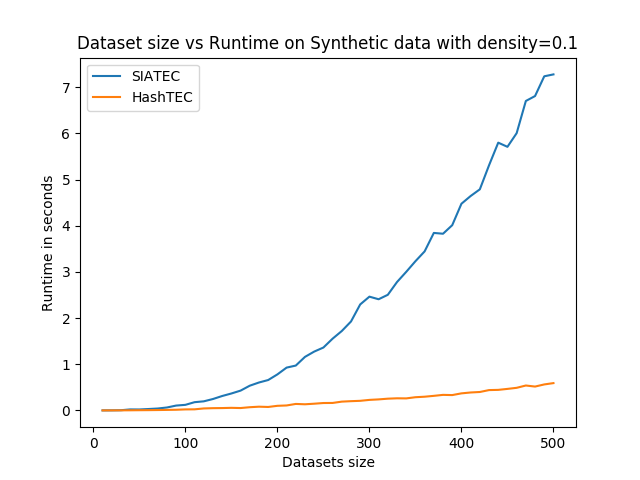
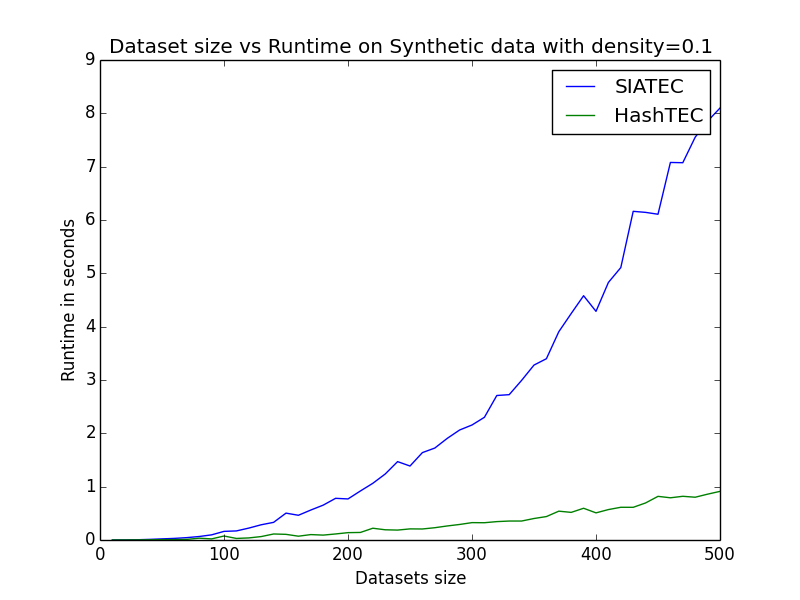
added some graphs of results, messed up main file a bunch

diff --git a/main.py b/main.py
@@ -4,6 +4,7 @@ import synthetic_tests as synth_tests
 import utils as util
 from time import time
 from os.path import join
+from os import listdir
 from tqdm import tqdm
 import multiprocessing as mp
 
@@ -12,7 +13,7 @@ import matplotlib.pyplot as plt
 import numpy as np
 
 
-PARKER_ROOT = "./charlier_parker_data/"
+PARKER_ROOT = "./charlie_parker_data/"
 
 def syntheticDataTest(dataset):
     startSia = time()
@@ -21,7 +22,7 @@ def syntheticDataTest(dataset):
     startHash = time()
     hashOutput = hashtec.hashTEC(dataset)
     endHash = time()
-    print("Total time for SIATEC: {}\nTotal time for HashTEC: {} seconds".format(endSia - startSia, endHash - startHash))
+    # print("Total time for SIATEC: {}\nTotal time for HashTEC: {} seconds".format(endSia - startSia, endHash - startHash))
 
     # print("HASH OUTPUT: " + str(hashOutput))
     # print("SIA OUTPUT: " + str(siaTecOutput))
@@ -56,9 +57,9 @@ def musicDataTest(filename):
     print("Test results for music data from {}".format(piecename))
     print("Total time for SIATEC: {} seconds\nTotal time for HashTEC: {} seconds".format(endSia - startSia, endHash - startHash))
 
-    hashTecOutput = [(pat, trans) for pat, trans in hashOutput.items()]
-    equivOutput = util.isEquivTecSets(siaTecOutput, hashTecOutput, dataset)
-    print("SIATEC and HashTEC outputs are equivalent: {}".format(equivOutput))
+    # hashTecOutput = [(pat, trans) for pat, trans in hashOutput.items()]
+    # equivOutput = util.isEquivTecSets(siaTecOutput, hashTecOutput, dataset)
+    # print("SIATEC and HashTEC outputs are equivalent: {}".format(equivOutput))
 
 
 def pmap(f, xs):
@@ -72,7 +73,7 @@ def pmap(f, xs):
 
 
 def densityRuntimeTest():
-    densities = [0.001, 0.01, 0.1, 1.0]
+    densities = [0.001, 0.01, 0.1]
 
     for i, density in enumerate(densities):
         xaxis = np.arange(10, 510, 10)
@@ -103,33 +104,88 @@ def multiLengthMusicTest(datasets, xaxis):
         siaResults.append(siaRes)
         hashResults.append(hashRes)
 
-    plt.figure()
-    plt.title("Dataset size vs Runtime on Synthetic data on music piece")
-    plt.xlabel("Datasets size")
-    plt.ylabel("Runtime in seconds")
-    plt.plot(xaxis, siaResults)
-    plt.plot(xaxis, hashResults)
-    plt.legend(["SIATEC", "HashTEC"])
-    plt.savefig("music_prelim_results.png")
+    return siaResults, hashResults
+
+    # plt.figure()
+    # plt.title("Dataset size vs Runtime on Synthetic data on music piece")
+    # plt.xlabel("Datasets size")
+    # plt.ylabel("Runtime in seconds")
+    # plt.plot(xaxis, siaResults)
+    # plt.plot(xaxis, hashResults)
+    # plt.legend(["SIATEC", "HashTEC"])
+    # plt.savefig("music_prelim_results.png")
 
 
 def main():
     # test1 = sorted(synth_tests.regular_dataset)
     # syntheticDataTest(test1)
     #
+
+    parker_files = list()
+    # root_dir = join(DROPBOX_MUSICA_XML_ROOT, "./be_bop/")
+    music_files = listdir(PARKER_ROOT)
+    for filename in music_files:
+        if "Charlie Parker" in filename:
+            parker_files.append(join(PARKER_ROOT, filename))
+
     # filename = join(PARKER_ROOT, "be_bop/Charlie Parker - Donna_Lee.xml")
-    # piecename = filename[filename.rfind("/") + 1: filename.rfind(".xml")]
-    # print("Creating note dataset for {}".format(piecename))
-    # parser = XMLParser()
-    # (_, parts) = parser.parse_score(filepath=filename)
-    # dataset = util.pitch_dataset(parts[0]["melody"])
-    # bounds = np.arange(10, len(dataset) + 10, 10)
-    # datasets = [dataset[:int(b)] for b in bounds]
-    # multiLengthMusicTest(datasets, bounds)
+    # parker_files = parker_files[:2]
+    # siaResults = list()
+    # hashResults = list()
+    # pieceNames = list()
+    # numPieces = len(parker_files)
+    # for filename in parker_files:
+    #     piecename = filename[filename.rfind(" - ") + 3: filename.rfind(".xml")]
+    #     pieceNames.append(piecename)
+    #     print("Creating note dataset for {}".format(piecename))
+    #     parser = XMLParser()
+    #     (_, parts) = parser.parse_score(filepath=filename)
+    #     dataset = util.pitch_dataset(parts[0]["melody"])
+    #     # bounds = np.arange(10, len(dataset) + 10, 10)
+    #     # datasets = [dataset[:int(b)] for b in bounds]
+    #     # siaRes, hashRes = syntheticDataTest(dataset)
+    #     siaTecOutput = siatec.siatec(dataset)
+    #     hashOutput = hashtec.hashTEC(dataset)
+    #     # sia, hash = multiLengthMusicTest(datasets, bounds)
+    #     siaResults.append(len(siaTecOutput))
+    #     hashResults.append(len(hashOutput))
+
+    densities = [0.001, 0.01, 0.1]
+
+    siaResults = list()
+    hashResults = list()
+    for density in densities:
+        xaxis = np.arange(10, 510, 10)
+        datasets = util.randomSampleSetsLinear(500, 500, 10, density=density)
+
+        for dataset in datasets:
+            siaTecOutput = siatec.siatec(dataset)
+            hashOutput = hashtec.hashTEC(dataset)
+            siaResults.append(len(siaTecOutput))
+            hashResults.append(len(hashOutput))
+
+        # plt.figure()
+        # plt.title("Dataset size vs Runtime on Synthetic data with density={}".format(density))
+        # plt.xlabel("Datasets size")
+        # plt.ylabel("Runtime in seconds")
+        # plt.plot(xaxis, siaResults)
+        # plt.plot(xaxis, hashResults)
+        # plt.legend(["SIATEC", "HashTEC"])
+
+    plt.figure()
+    plt.title("Patterns found vs density comparison on synthetic data")
+    plt.xlabel("Density")
+    plt.ylabel("Number of Patterns")
+    plt.bar([i - 0.475 for i in range(len(densities))], siaResults, width=0.45)
+    plt.bar([i + 0.025 for i in range(len(densities))], hashResults, width=0.45, color="green")
+    plt.legend(["SIATEC", "HashTEC"])
+    plt.xticks(list(range(len(densities))), densities, rotation=0)
+    plt.show()
+
 
     # musicDataTest(filename)
 
-    densityRuntimeTest()
+    # densityRuntimeTest()
     plt.show()
 
 

diff --git a/hashtec.py b/hashtec.py
@@ -13,7 +13,7 @@ def compute_vector_table(D):
 def mtpHashTable(D, V):
     results = dict()
     for vector, idx in V:
-        if vector in results.keys():
+        if vector in results:
             results[vector].append(D[idx])
         else:
             results[vector] = [D[idx]]
@@ -95,9 +95,9 @@ def equivClassHashTable(M):
 
 def hashTEC(D):
     V = compute_vector_table(D)
-    print("V done")
+    # print("V done")
     mHash = mtpHashTable(D, V)
-    print("mHash done")
+    # print("mHash done")
     TECs = equivClassHashTable(mHash)
-    print("TECs done")
+    # print("TECs done")
     return TECs
